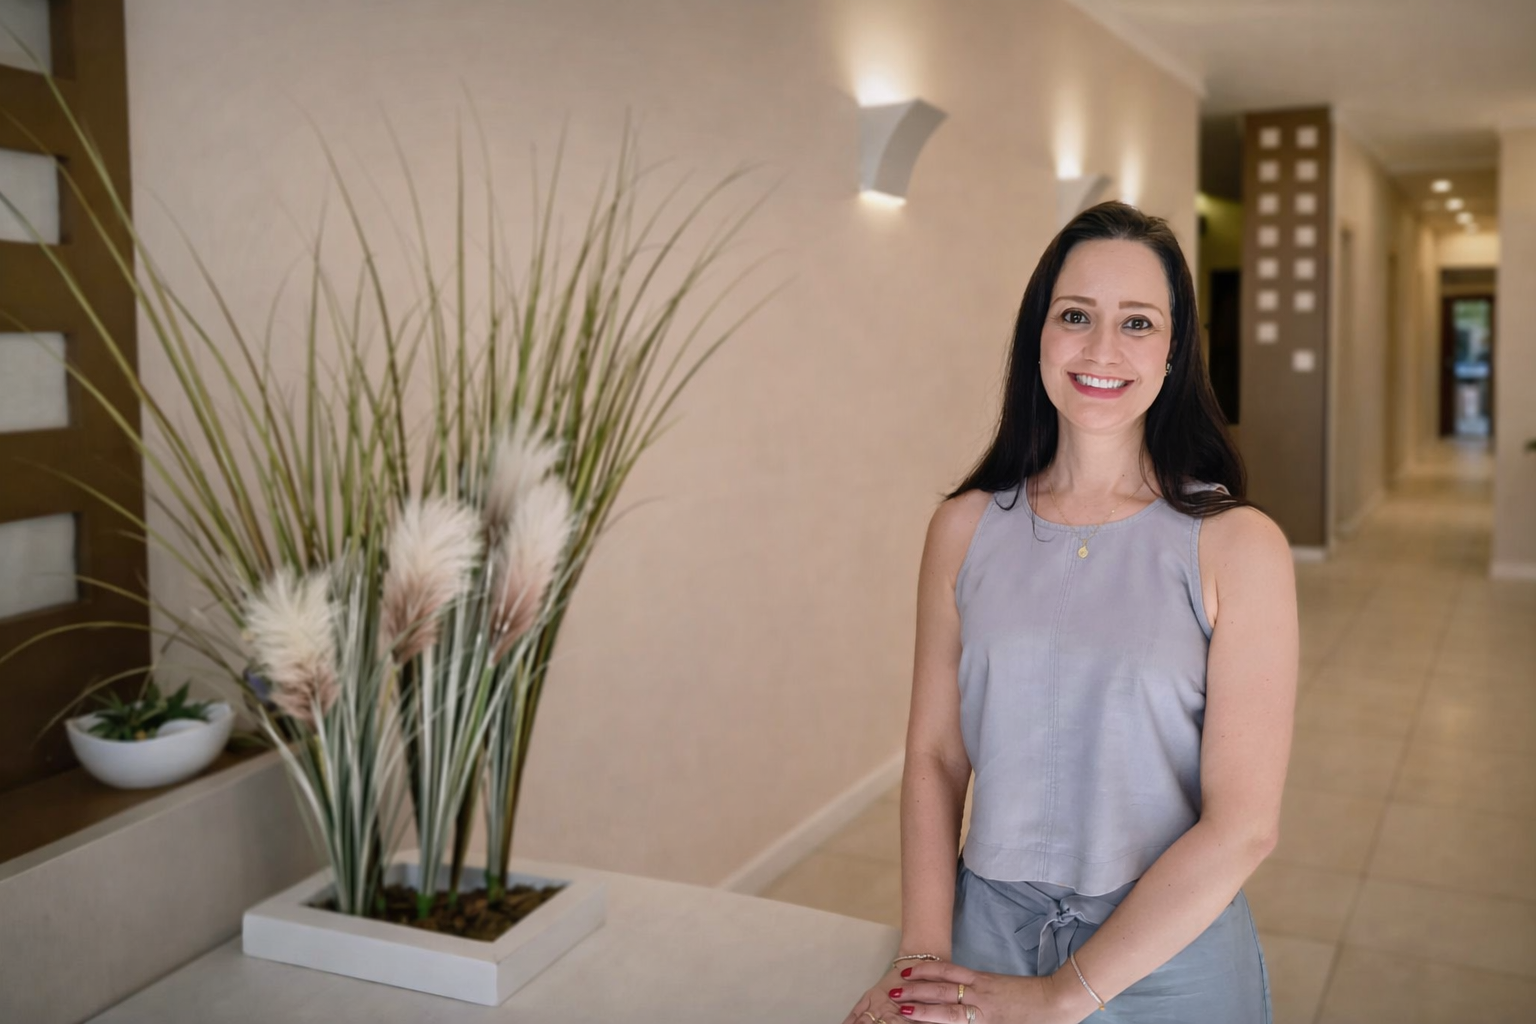
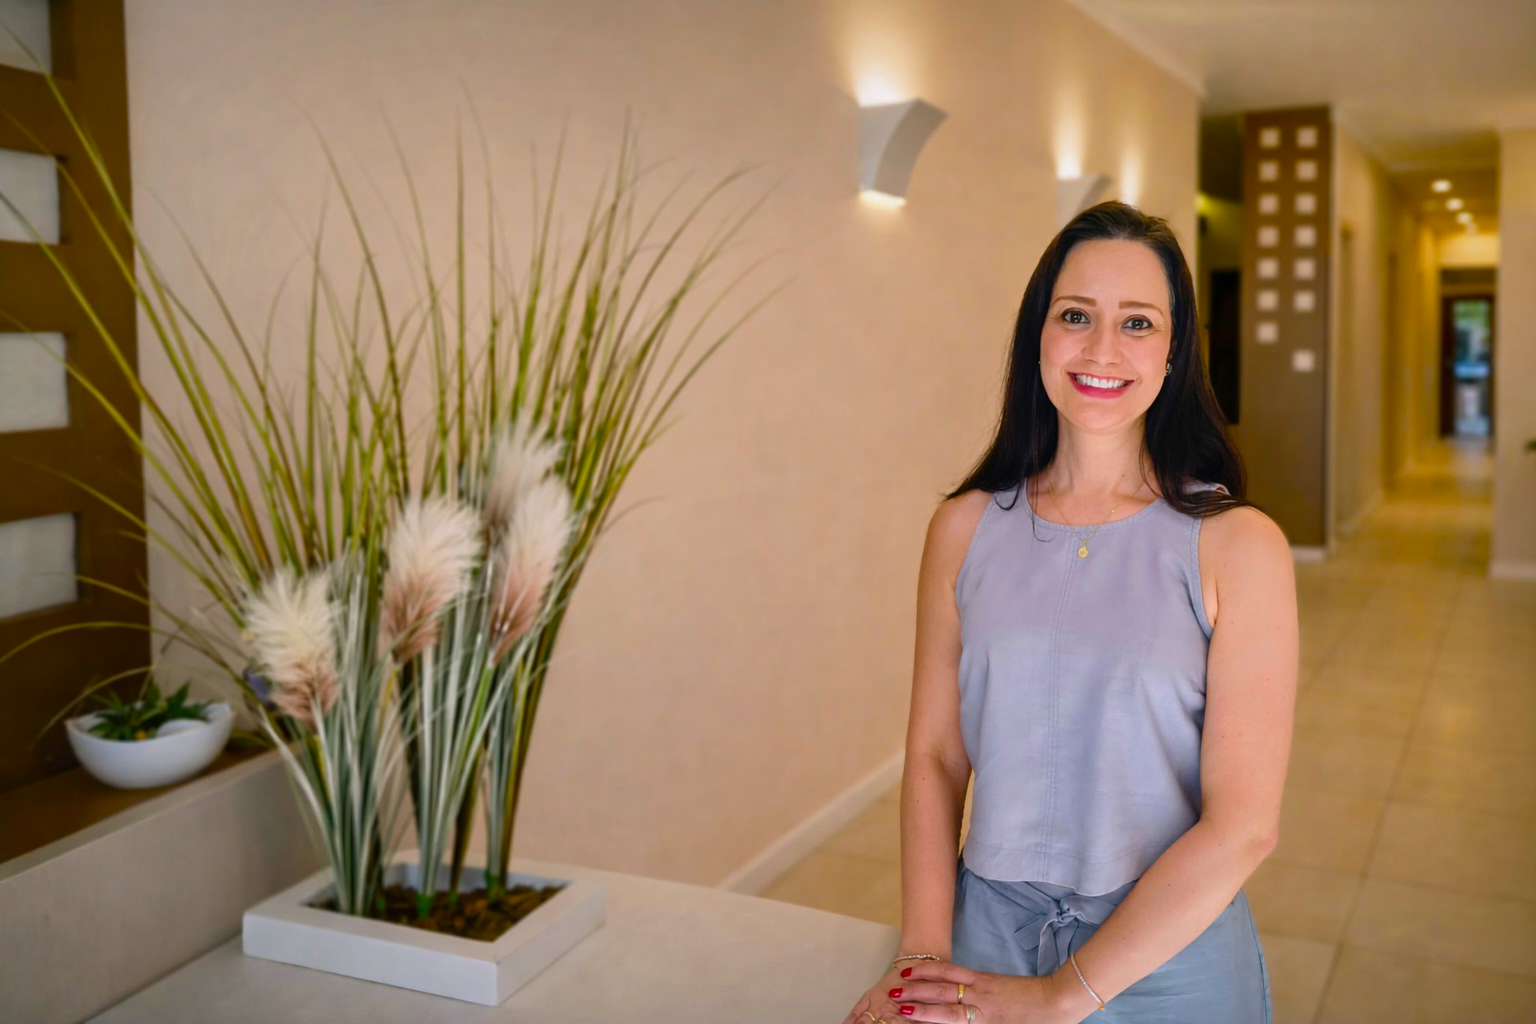
[FIX] Background Img

diff --git a/assets/css/main.css b/assets/css/main.css
@@ -1101,3 +1101,10 @@ section,
 
     --bs-gradient: none;
 }
+
+/* Mobile */
+@media (max-width: 768px) {
+    #home img {
+        content: url("../img/glau-bg-mobile.png");
+    }
+}
